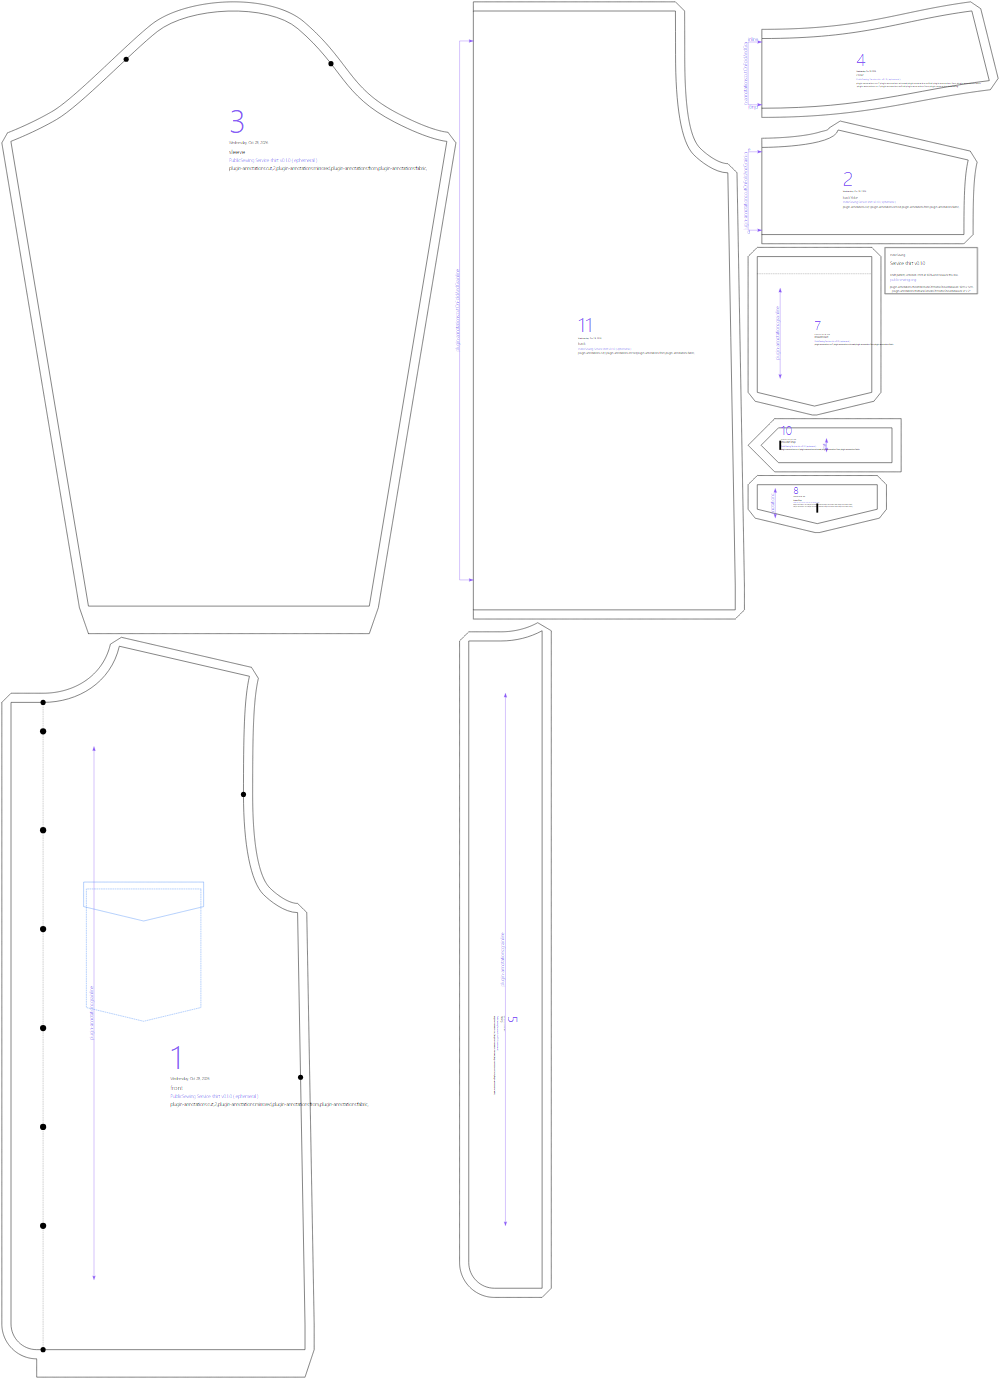
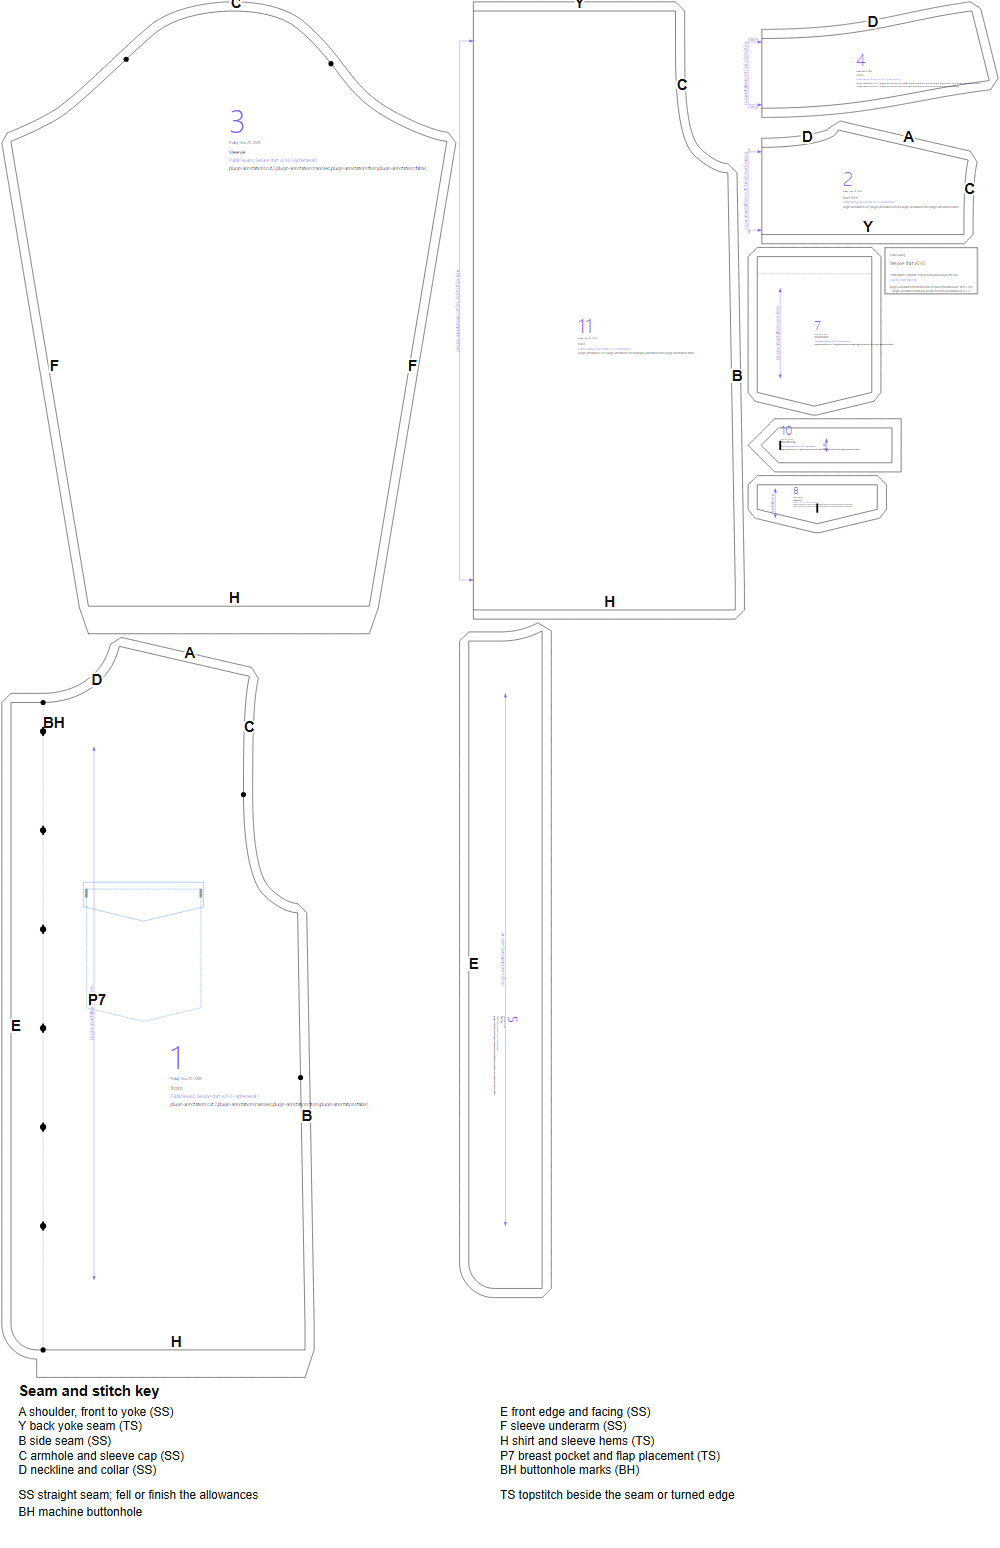
Map the service shirt; the dress shirt inherits it
Buttonhole marks are now drafted on the service shirt's front (and so the
dress shirt's).

diff --git a/designs/service-shirt/BRIEF.md b/designs/service-shirt/BRIEF.md
@@ -54,9 +54,10 @@ Front (cut 2), back yoke and back body (on the fold), collar, facing (cut 2), sl
 pockets and flaps (cut 2 each; flaps also as facings), shoulder straps (cut 4).
 
 ## Construction
-1. Pockets: hem, press and topstitch on their marks; make the flaps, sew each above its pocket.
-2. Back to the yoke; fronts to the yoke at the shoulders.
-3. Shoulder straps: sew each pair round, turn; buttonhole at the point; tack the square end into
-   the armhole seam, button at the neck end.
-4. Facings to the fronts; collar to the neckline, between the facings.
-5. Sleeves set in; underarm and side seams; hems; buttonholes on the right front (men's).
+Letters are the seam and placement codes on the pattern map; numbers are printed on the pieces. **SS** straight seam, felled or finished, **TS** topstitch, **BH** machine buttonhole.
+
+1. Pockets **7**: hem, press and topstitch them with **TS** on their marks **P7** on the fronts **1**; make the flaps **8** and sew each above its pocket.
+2. Sew the back body **11** to the yoke **2** at **Y** and topstitch; sew the fronts **1** to the yoke at the shoulders **A**.
+3. Shoulder straps **10**: sew each pair round and turn; work a buttonhole at the point; tack the square end into the armhole seam and button it at the neck end.
+4. Sew the facings **5** to the front edges **E** of the fronts **1**; sew the collar **4** to the neckline **D**, between the facings.
+5. Set the sleeves **3** into the armholes **C**; sew the underarm **F** and side seams **B** of the fronts **1** and back **11**; turn the hems **H**; work the buttonholes **BH** on the right front **1** (men's).
